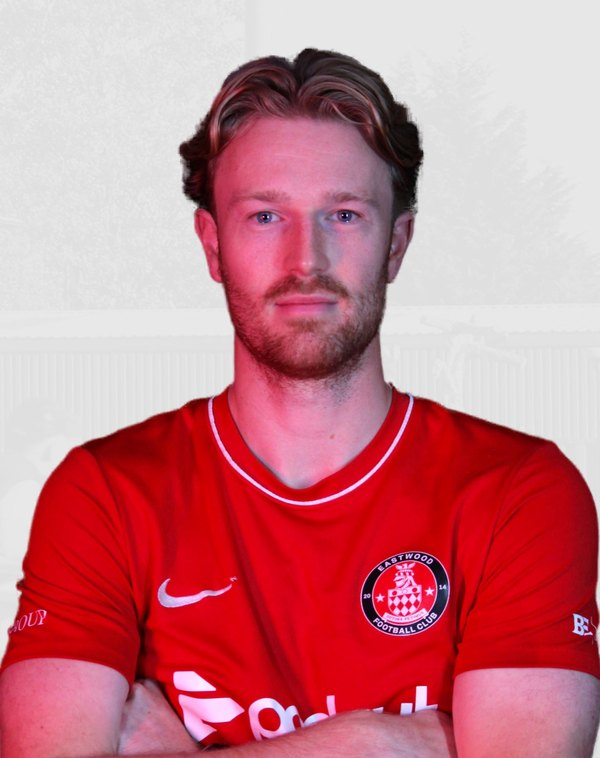
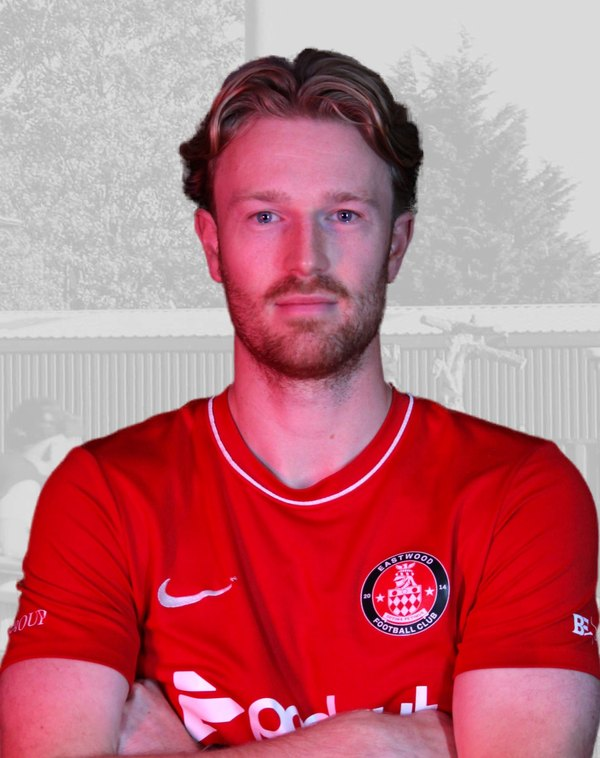
3.67.1: stronger textured backdrop on the player photos (Ben picked A)
Claude-Session: https://claude.ai/code/session_01Vo2TvrgiL9mTjhphB5yHWp

diff --git a/eastwood-fwp.php b/eastwood-fwp.php
@@ -2,7 +2,7 @@
 /**
  * Plugin Name: Eastwood — club data
  * Description: Everything the Eastwood site needs from outside WordPress: the Football Web Pages proxy (live fixtures, results, league table and full match detail), the club-badge store, and the importer that pulls the club's news across from Pitchero.
- * Version: 3.67.0
+ * Version: 3.67.1
  * Author: Eastwood FC
  *
  * INSTALL: a normal plugin at wp-content/plugins/eastwood-fwp/. Updates come
@@ -3929,7 +3929,7 @@ add_action( 'wp_enqueue_scripts', 'ew_teams_assets', 20 );
  * while the header reached 2.37.0, so the site was offered a version
  * older than the one it had and seven releases never landed.
  */
-const EW_FWP_VERSION = '3.67.0';
+const EW_FWP_VERSION = '3.67.1';
 
 /*
  * Parts loader.
